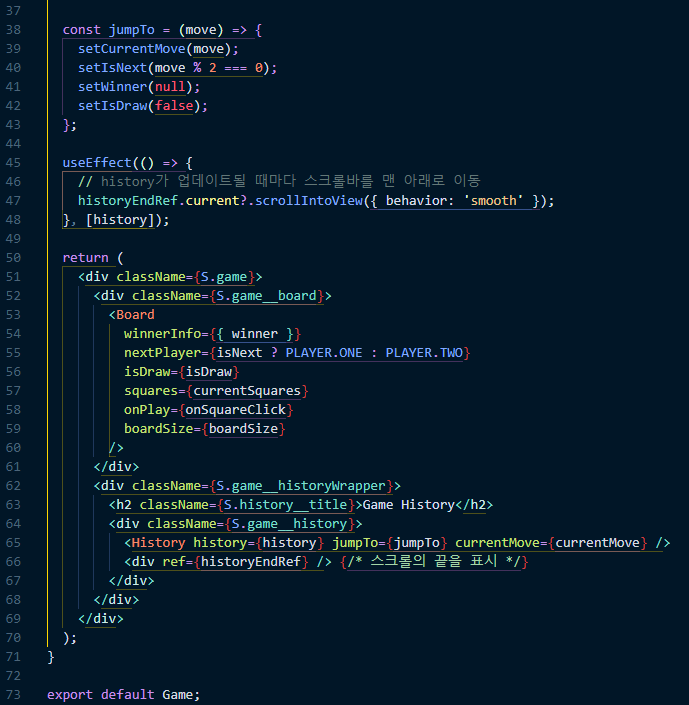
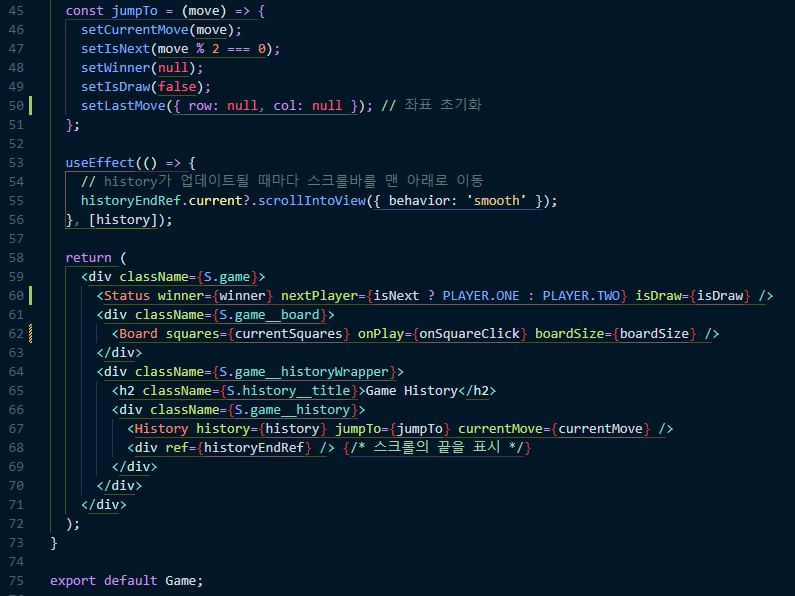
[fix, modi] - README.md 작성 완 - Board, Game 코드 리팩토링 - gameLogic 변경

Changed region(s): [[0.0, 0.0, 0.9753, 1.0], [0.061, 0.9664, 0.3048, 0.9966], [0.4877, 0.151, 0.6096, 0.1812]]

diff --git a/3rd-week/src/utils/gameLogic.js b/3rd-week/src/utils/gameLogic.js
@@ -1,66 +1,65 @@
 import { PLAYER } from '@/constants/constants';
 
-export function calculateWinner(squares, boardSize) {
-  const lines = [];
+export const calculateWinner = (squares, boardSize, lastMoveRow, lastMoveCol) => {
+  const lastMoveIndex = lastMoveRow * boardSize + lastMoveCol;
+  const player = squares[lastMoveIndex];
+  // console.log(squares);
 
-  // 가로와 세로 체크
-  for (let row = 0; row < boardSize; row++) {
-    for (let col = 0; col < boardSize - 4; col++) {
-      lines.push([
-        row * boardSize + col,
-        row * boardSize + col + 1,
-        row * boardSize + col + 2,
-        row * boardSize + col + 3,
-        row * boardSize + col + 4,
-      ]);
+  if (!player) return null;
 
-      lines.push([
-        col * boardSize + row,
-        (col + 1) * boardSize + row,
-        (col + 2) * boardSize + row,
-        (col + 3) * boardSize + row,
-        (col + 4) * boardSize + row,
-      ]);
-    }
-  }
+  const directions = [
+    { row: 0, col: 1 }, // 가로
+    { row: 1, col: 0 }, // 세로
+    { row: 1, col: 1 }, // \
+    { row: 1, col: -1 }, // /
+  ];
 
-  // 대각선 체크 (\와 /)
-  for (let row = 0; row < boardSize - 4; row++) {
-    for (let col = 0; col < boardSize - 4; col++) {
-      lines.push([
-        row * boardSize + col,
-        (row + 1) * boardSize + col + 1,
-        (row + 2) * boardSize + col + 2,
-        (row + 3) * boardSize + col + 3,
-        (row + 4) * boardSize + col + 4,
-      ]);
+  const countInRow = (dirRow, dirCol) => {
+    let count = 0;
+    let row = lastMoveRow;
+    let col = lastMoveCol;
 
-      lines.push([
-        (row + 4) * boardSize + col,
-        (row + 3) * boardSize + col + 1,
-        (row + 2) * boardSize + col + 2,
-        (row + 1) * boardSize + col + 3,
-        row * boardSize + col + 4,
-      ]);
-    }
-  }
-
-  for (let i = 0; i < lines.length; i++) {
-    const [a, b, c, d, e] = lines[i];
-    if (
-      squares[a] &&
-      squares[a] === squares[b] &&
-      squares[a] === squares[c] &&
-      squares[a] === squares[d] &&
-      squares[a] === squares[e]
+    while (
+      row >= 0 &&
+      row < boardSize &&
+      col >= 0 &&
+      col < boardSize &&
+      squares[row * boardSize + col] === player
     ) {
-      return squares[a];
+      count++;
+      row += dirRow;
+      col += dirCol;
+    }
+
+    row = lastMoveRow - dirRow;
+    col = lastMoveCol - dirCol;
+
+    while (
+      row >= 0 &&
+      row < boardSize &&
+      col >= 0 &&
+      col < boardSize &&
+      squares[row * boardSize + col] === player
+    ) {
+      count++;
+      row -= dirRow;
+      col -= dirCol;
+    }
+
+    return count;
+  };
+
+  for (let i = 0; i < directions.length; i++) {
+    const { row, col } = directions[i];
+    if (countInRow(row, col) >= 5) {
+      return player;
     }
   }
-  return null;
-}
 
-export function handlePlay({
+  return null;
+};
+
+export const handlePlay = ({
   index,
   currentSquares,
   isNext,
@@ -68,19 +67,22 @@ export function handlePlay({
   history,
   currentMove,
   boardSize,
-  calculateWinner,
+  row,
+  col,
   setHistory,
   setCurrentMove,
   setIsNext,
   setWinner,
   setIsDraw,
-}) {
+  setLastMove,
+}) => {
   if (currentSquares[index] || winner) return;
 
   const nextSquares = currentSquares.slice();
   nextSquares[index] = isNext ? PLAYER.ONE : PLAYER.TWO;
 
-  const gameWinner = calculateWinner(nextSquares, boardSize);
+  // 승자 확인
+  const gameWinner = calculateWinner(nextSquares, boardSize, row, col);
   if (gameWinner) {
     setWinner(gameWinner);
     setIsDraw(false);
@@ -89,13 +91,15 @@ export function handlePlay({
     return;
   }
 
+  // 무승부 확인
   if (nextSquares.every((square) => square !== null)) {
     setIsDraw(true);
     setWinner(null);
   } else {
+    // 승자도 없고 무승부도 아니면 다음 플레이어에게 차례를 넘김
     setIsNext(!isNext);
+    setHistory([...history.slice(0, currentMove + 1), nextSquares]);
+    setCurrentMove(currentMove + 1);
+    setLastMove({ row, col }); // 마지막으로 놓은 돌의 좌표 업데이트
   }
-
-  setHistory([...history.slice(0, currentMove + 1), nextSquares]);
-  setCurrentMove(currentMove + 1);
-}
+};

diff --git a/3rd-week/src/components/Game/Game.jsx b/3rd-week/src/components/Game/Game.jsx
@@ -1,9 +1,10 @@
 import { useState, useEffect, useRef } from 'react';
 import Board from '@/components/Board/Board';
 import History from '@/components/History/History';
+import Status from '@/components/Status/Status';
 import S from './Game.module.scss';
+import { handlePlay } from '@/utils/gameLogic';
 import { PLAYER } from '@/constants/constants';
-import { handlePlay, calculateWinner } from '@/utils/gameLogic';
 
 function Game() {
   const boardSize = 19; // 보드 크기 설정
@@ -12,12 +13,16 @@ function Game() {
   const [isNext, setIsNext] = useState(true);
   const [winner, setWinner] = useState(null);
   const [isDraw, setIsDraw] = useState(false);
+  const [lastMove, setLastMove] = useState({ row: null, col: null });
 
   const historyEndRef = useRef(null);
 
   const currentSquares = history[currentMove];
 
   const onSquareClick = (index) => {
+    const row = Math.floor(index / boardSize);
+    const col = index % boardSize;
+
     handlePlay({
       index,
       currentSquares,
@@ -26,12 +31,14 @@ function Game() {
       history,
       currentMove,
       boardSize,
-      calculateWinner,
+      row,
+      col,
       setHistory,
       setCurrentMove,
       setIsNext,
       setWinner,
       setIsDraw,
+      setLastMove,
     });
   };
 
@@ -40,6 +47,7 @@ function Game() {
     setIsNext(move % 2 === 0);
     setWinner(null);
     setIsDraw(false);
+    setLastMove({ row: null, col: null }); // 좌표 초기화
   };
 
   useEffect(() => {
@@ -49,15 +57,9 @@ function Game() {
 
   return (
     <div className={S.game}>
+      <Status winner={winner} nextPlayer={isNext ? PLAYER.ONE : PLAYER.TWO} isDraw={isDraw} />
       <div className={S.game__board}>
-        <Board
-          winnerInfo={{ winner }}
-          nextPlayer={isNext ? PLAYER.ONE : PLAYER.TWO}
-          isDraw={isDraw}
-          squares={currentSquares}
-          onPlay={onSquareClick}
-          boardSize={boardSize}
-        />
+        <Board squares={currentSquares} onPlay={onSquareClick} boardSize={boardSize} />
       </div>
       <div className={S.game__historyWrapper}>
         <h2 className={S.history__title}>Game History</h2>

diff --git a/3rd-week/src/components/History/History.jsx b/3rd-week/src/components/History/History.jsx
@@ -8,23 +8,27 @@ History.propTypes = {
 };
 
 function History({ history, jumpTo, currentMove }) {
-  return (
-    <ol className={S.history}>
-      {history.map((squares, move) => {
-        const description = move > 0 ? `${move}번째 기보로 이동` : '처음으로';
-        return (
-          <li key={move} className={S.history__item}>
-            <button
-              className={`${S.history__button} ${move === currentMove ? S.active : ''}`}
-              onClick={() => jumpTo(move)}
-            >
-              {description}
-            </button>
-          </li>
-        );
-      })}
-    </ol>
-  );
+  const getDescription = (move) => {
+    return move > 0 ? `${move}번째 수로 이동` : '처음으로';
+  };
+
+  const renderHistoryItems = () => {
+    return history.map((squares, move) => {
+      const description = getDescription(move);
+      return (
+        <li key={move} className={S.history__item}>
+          <button
+            className={`${S.history__button} ${move === currentMove ? S.active : ''}`}
+            onClick={() => jumpTo(move)}
+          >
+            {description}
+          </button>
+        </li>
+      );
+    });
+  };
+
+  return <ol className={S.history}>{renderHistoryItems()}</ol>;
 }
 
 export default History;

diff --git a/3rd-week/src/components/Board/Board.jsx b/3rd-week/src/components/Board/Board.jsx
@@ -1,23 +1,16 @@
-import { shape, string, bool, arrayOf, func, number } from 'prop-types';
+import { string, arrayOf, func, number } from 'prop-types';
 import Squares from '../Squares/Squares';
-import Status from '../Status/Status';
 import S from './Board.module.scss';
 
 Board.propTypes = {
-  winnerInfo: shape({
-    winner: string,
-  }),
-  nextPlayer: string.isRequired,
-  isDraw: bool.isRequired,
   squares: arrayOf(string).isRequired,
   onPlay: func.isRequired,
   boardSize: number.isRequired,
 };
 
-function Board({ winnerInfo, nextPlayer, isDraw, squares, onPlay, boardSize }) {
+function Board({ squares, onPlay, boardSize }) {
   return (
     <section className={S.board}>
-      <Status winner={winnerInfo?.winner} nextPlayer={nextPlayer} isDraw={isDraw} />
       <Squares squares={squares} onPlay={onPlay} boardSize={boardSize} />
     </section>
   );

diff --git a/3rd-week/src/components/Status/Status.jsx b/3rd-week/src/components/Status/Status.jsx
@@ -9,7 +9,11 @@ Status.propTypes = {
 };
 
 function Status({ winner, nextPlayer, isDraw }) {
-  const status = winner ? `Winner: ${winner}` : isDraw ? '비겼습니다.' : `다음 차례: ${nextPlayer}`;
+  const status = winner
+    ? `${winner}가 승리했습니다!`
+    : isDraw
+      ? '비겼습니다.'
+      : `현재 차례: ${nextPlayer}`;
 
   return <header className={S.status}>{status}</header>;
 }
